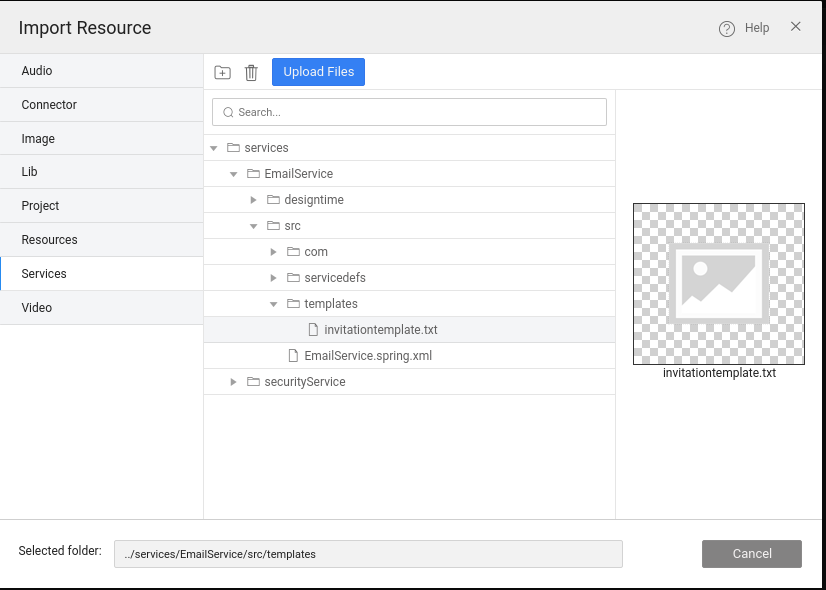
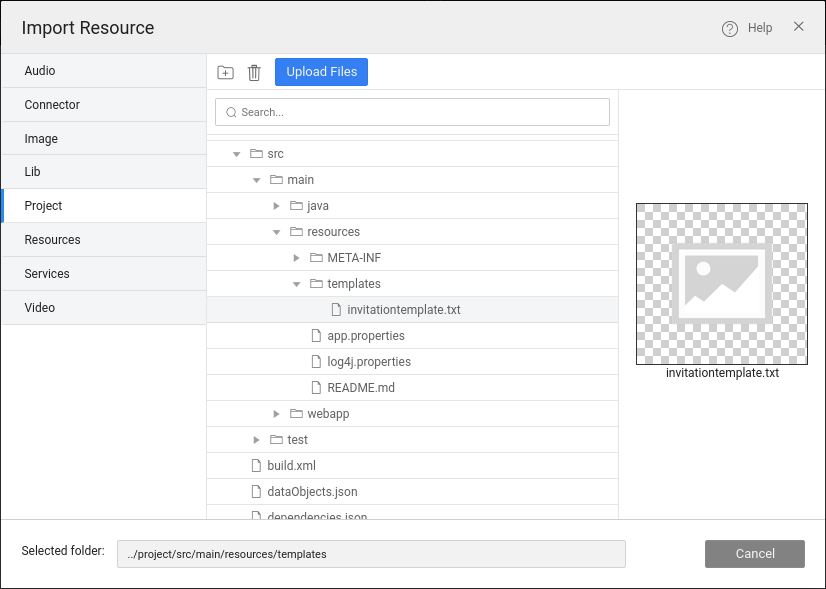
Send email with template from project resources folder

diff --git a/learn/how-tos/sending-email-using-java-service.md b/learn/how-tos/sending-email-using-java-service.md
@@ -118,7 +118,7 @@ Send email with template
     }
 ```
     
-If we want use this method we should have a **template** with name **invitationtemplate.txt** in project services `${ServiceName}/src/templates`  folder.
+If we want use this method we should have a **template** with name **invitationtemplate.txt** in project resources `src/main/resources/templates`  folder.
     [![invitaion email template](/learn/assets/emailTemplateFileLocation.png)](/learn/assets/emailTemplateFileLocation.png)
     [![invitaion email template with content](/learn/assets/emailTemplate.png)](/learn/assets/emailTemplate.png)
     
